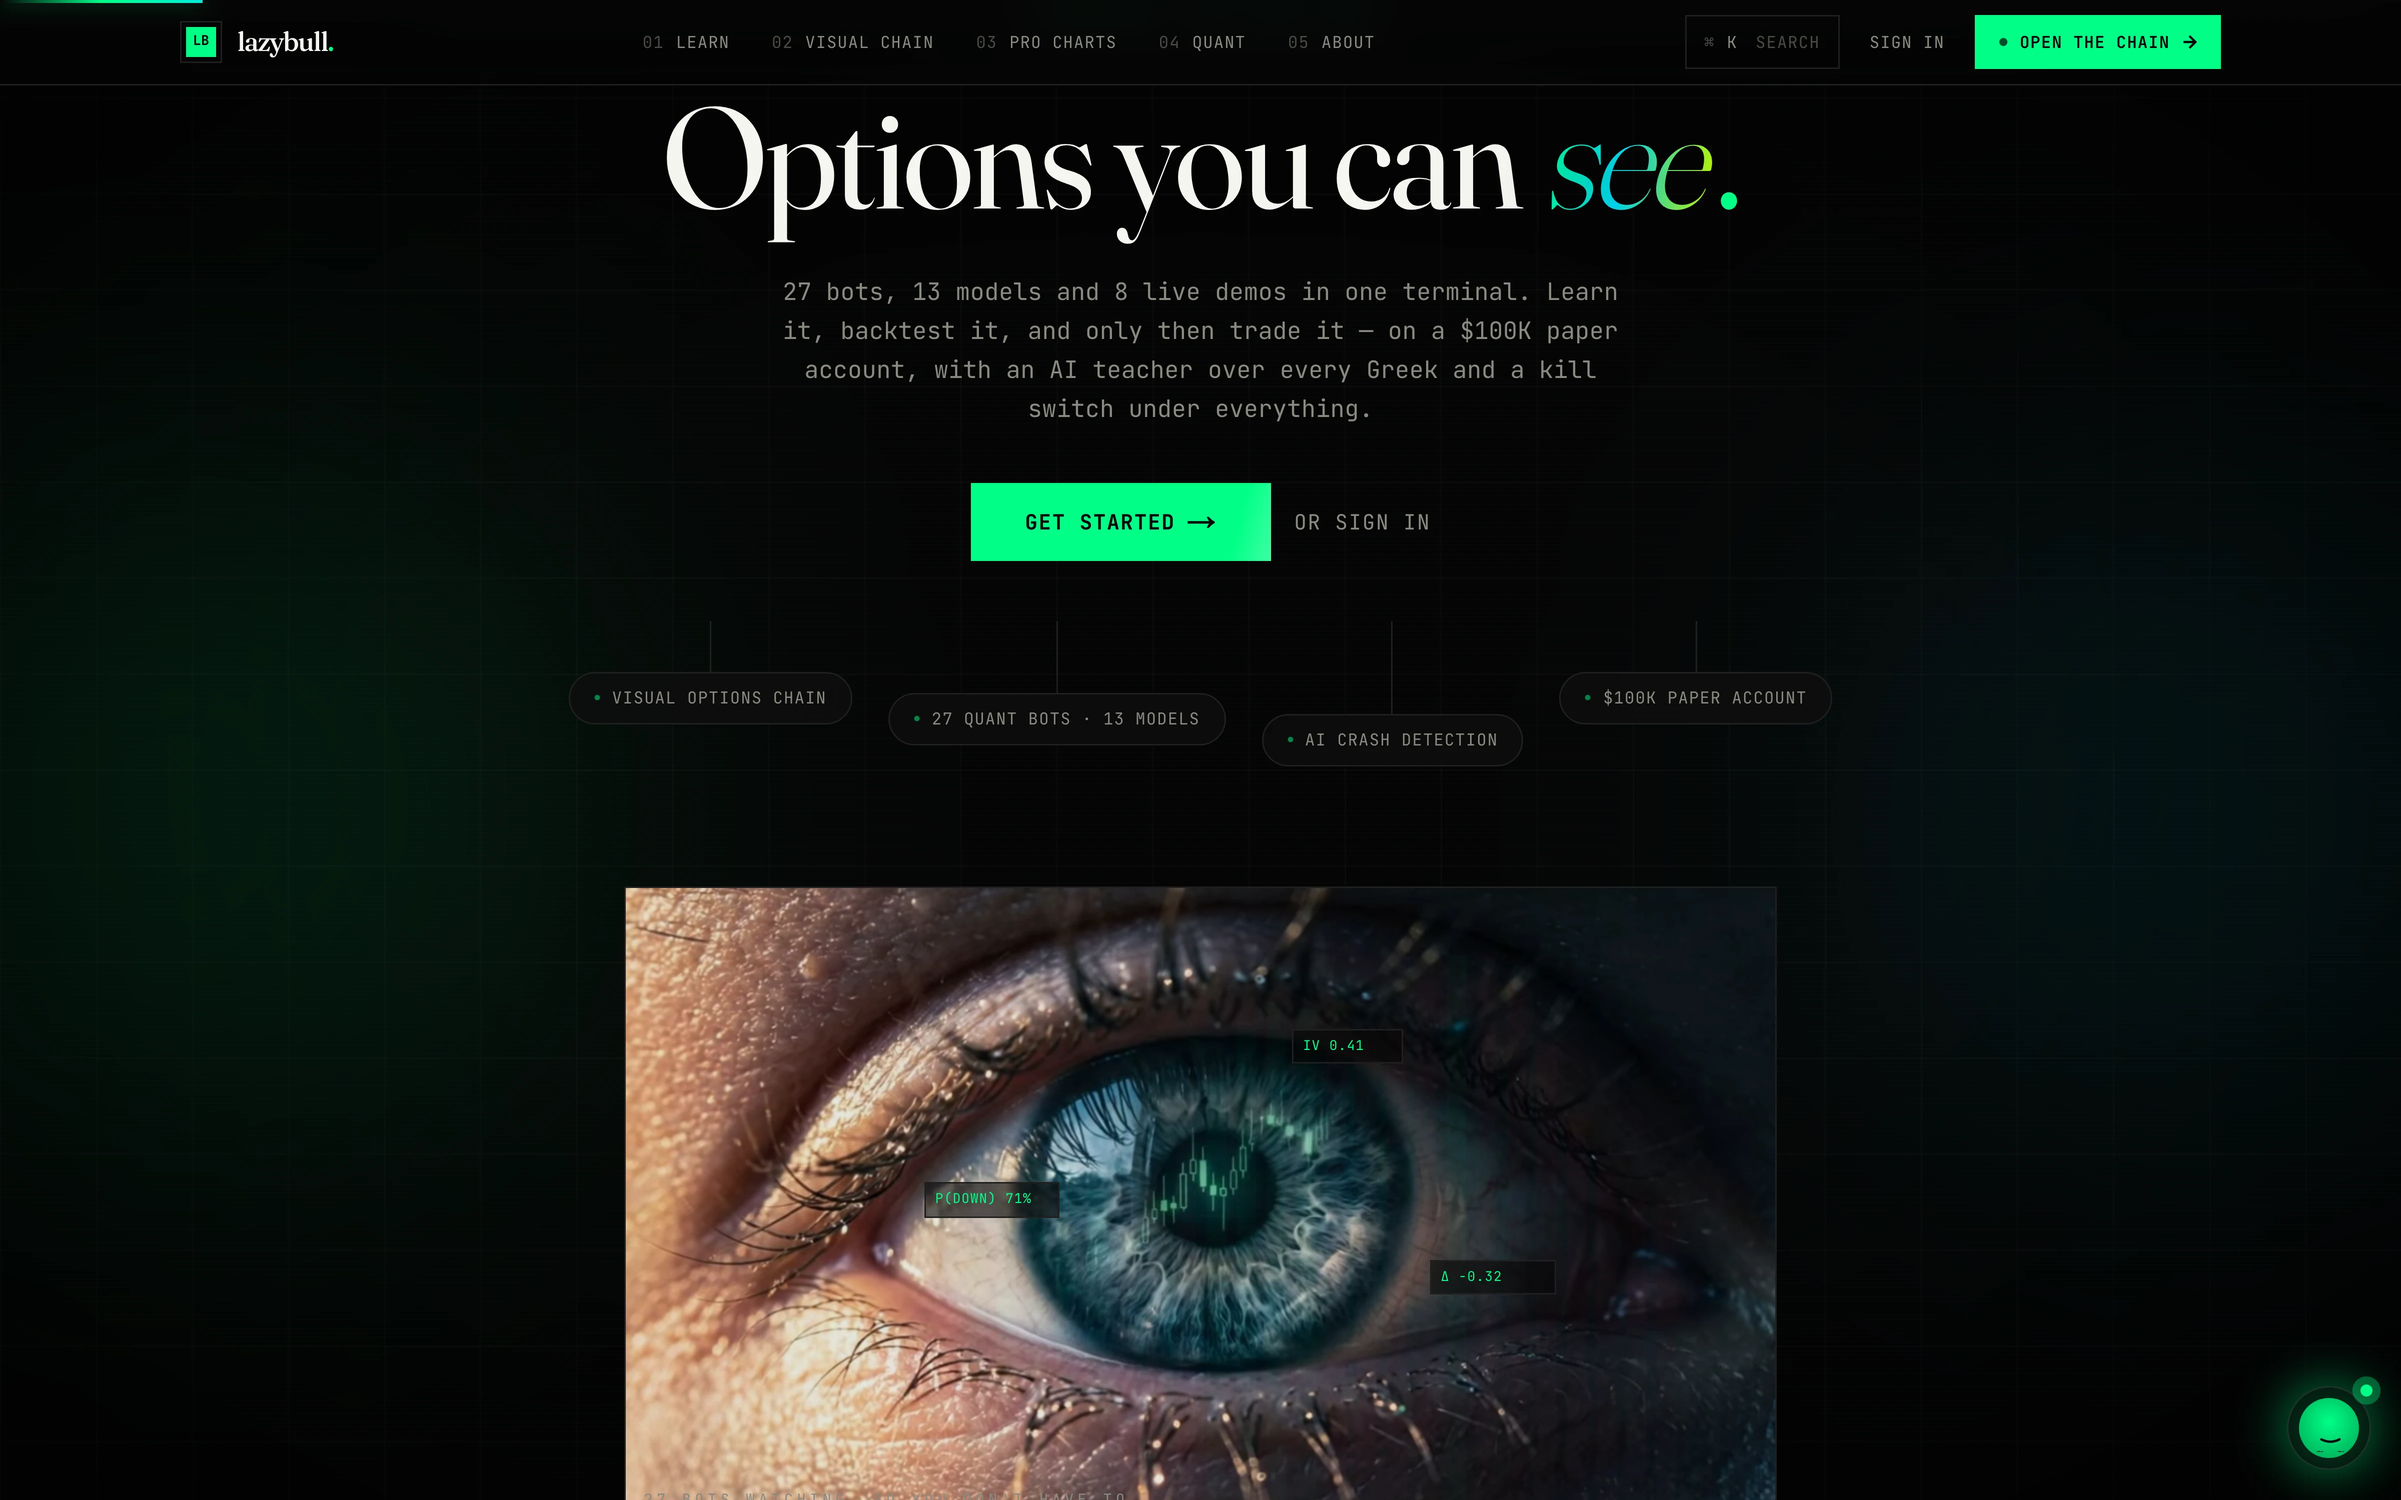
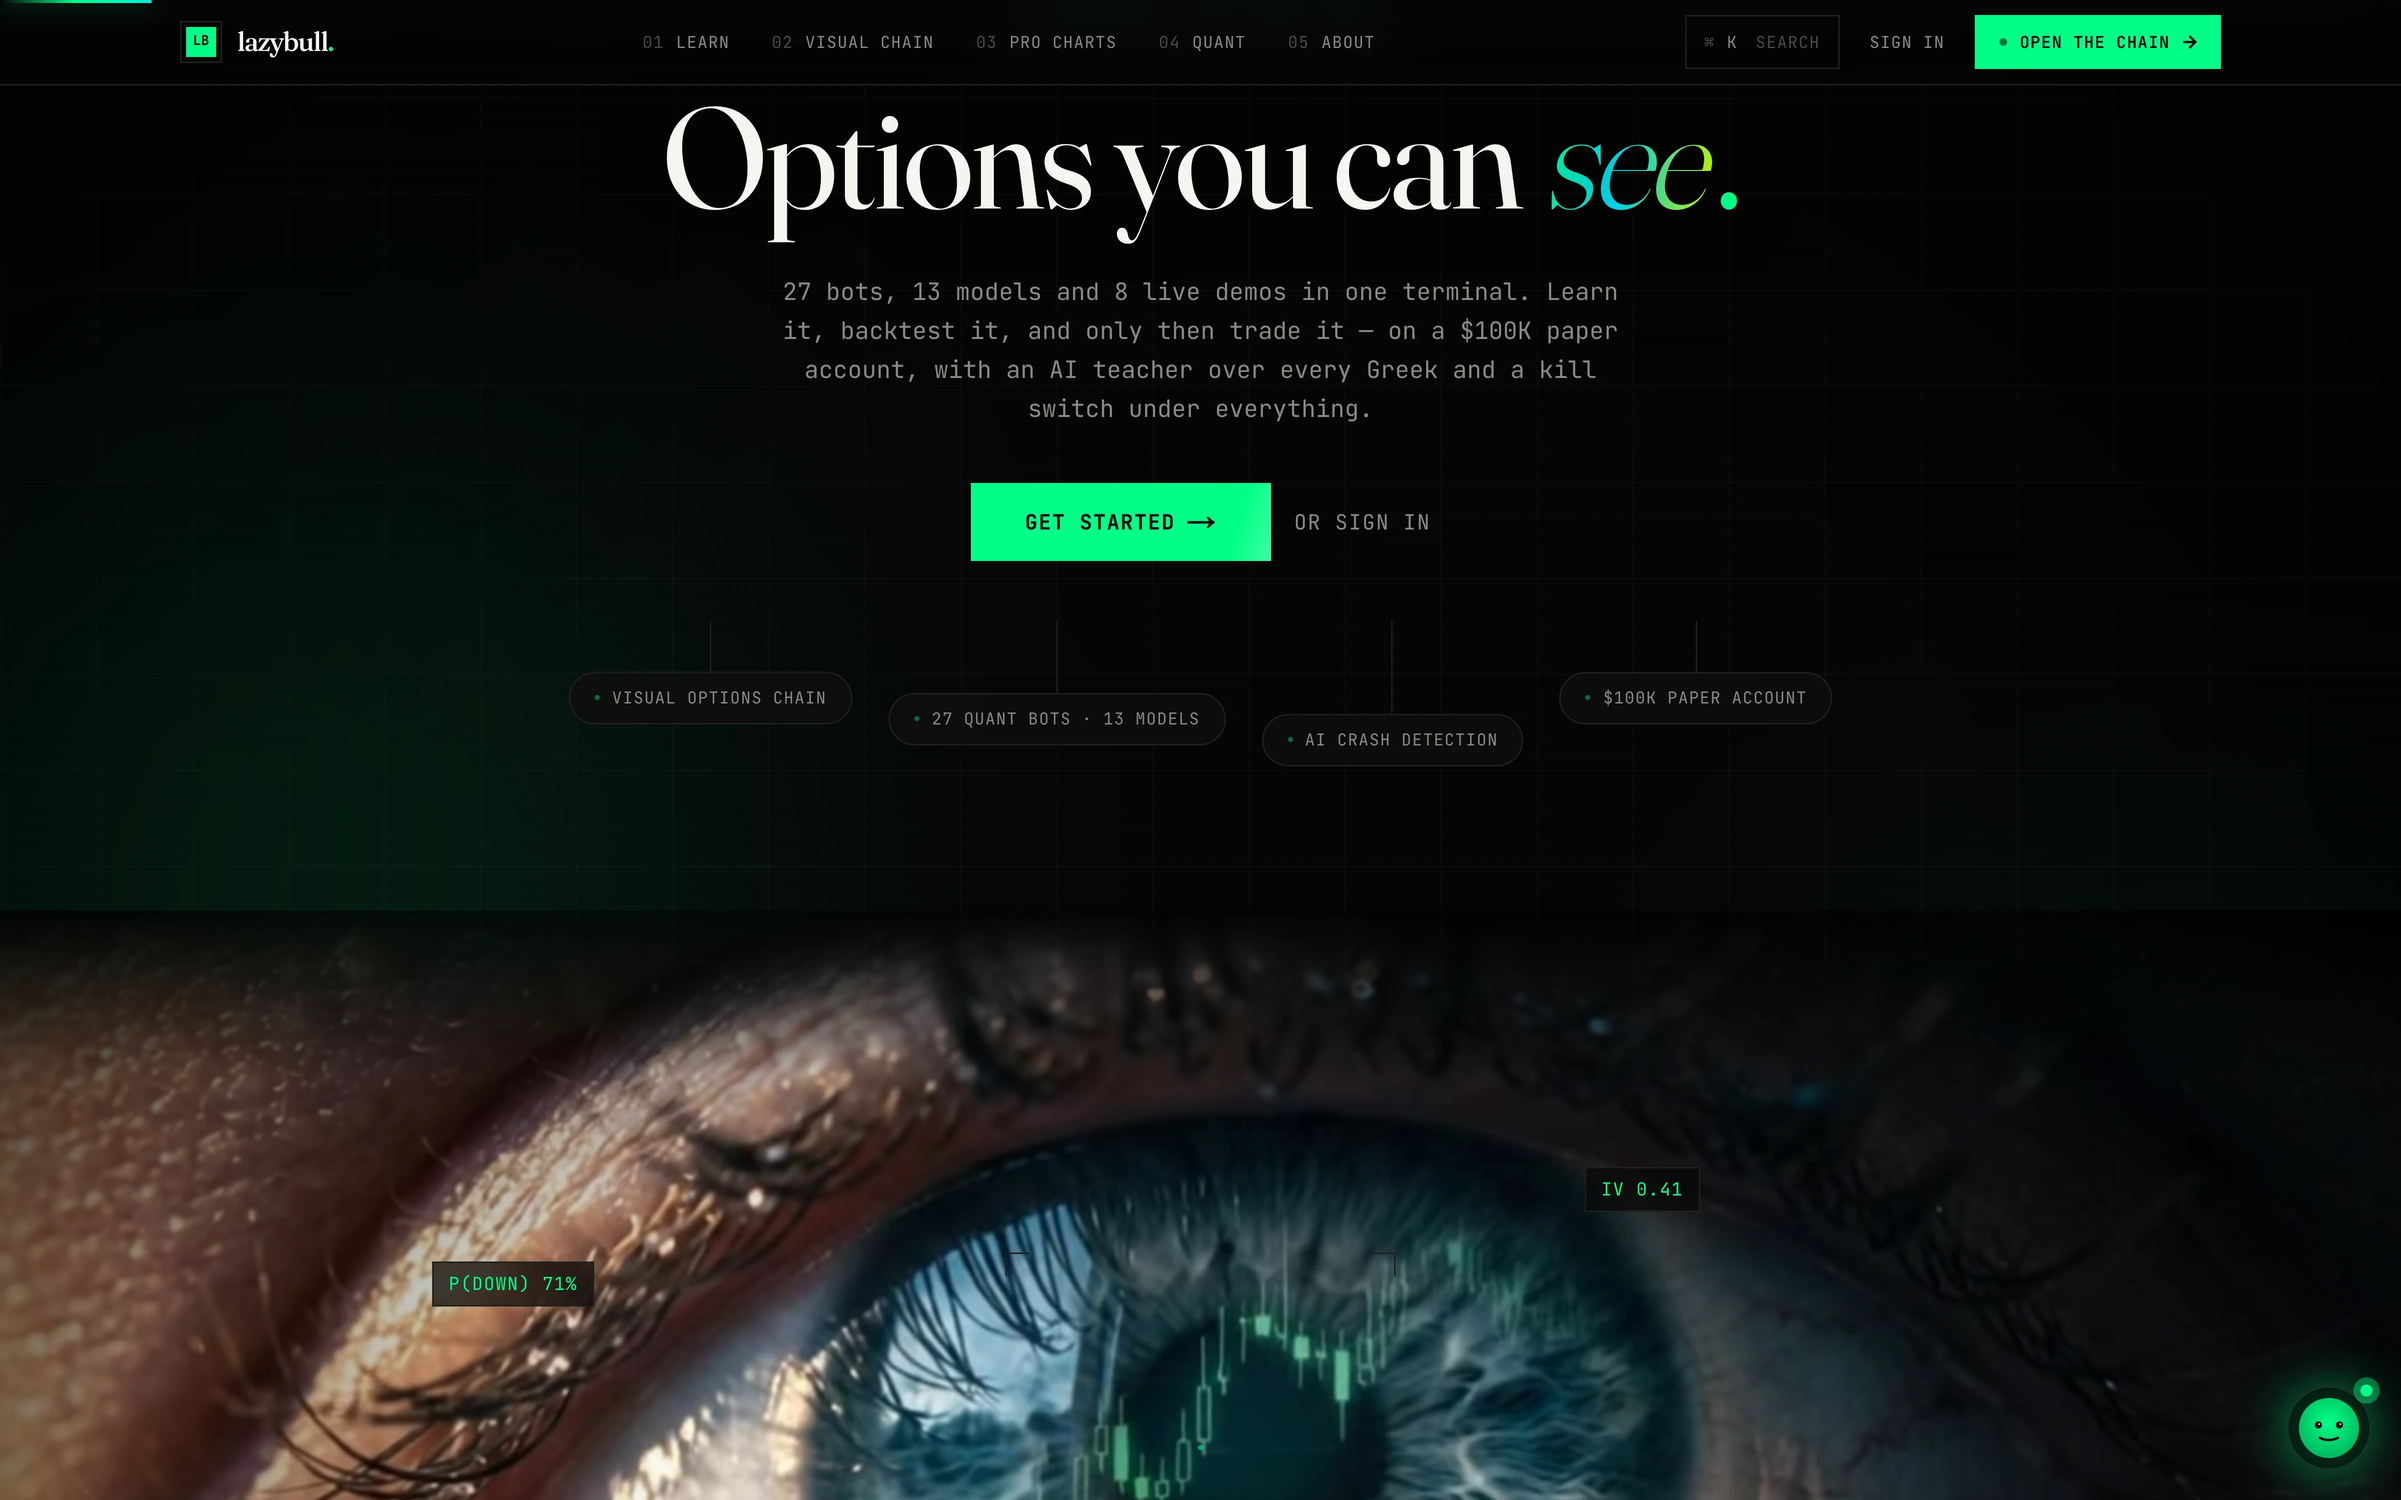
fix(home): eye band goes full-bleed — a scene, not an embed
Kill the bordered box: the live eye now runs edge to edge at 78vh,
top/bottom melted into the void with a mask + vignette. The caption
becomes a real title card set on the footage ('27 bots watching, so
you don't have to.'), HUD boxes sized up to readable, corner brackets
target the pupil. Reveal target rebaked.

Changed region(s): [[0.0, 0.589, 0.8438, 1.0]]

diff --git a/components/GetStarted.tsx b/components/GetStarted.tsx
@@ -152,41 +152,70 @@ export function GetStarted() {
           ))}
         </div>
 
-        {/* the AI that watches — macro eye with live HUD tracking boxes */}
-        <div className="relative mt-12 w-full max-w-3xl overflow-hidden border border-border">
-          {/* a LIVE eye: blinks, pupil breathes, the chart in it flickers */}
-          <video
-            ref={(el) => {
-              if (!el) return;
-              el.muted = true;
-              if (el.paused && !window.matchMedia("(prefers-reduced-motion: reduce)").matches) {
-                el.play().catch(() => {});
-              }
-            }}
-            src="/media/loops/eye-loop.webm"
-            poster="/media/eye/eye-hero@1600.webp"
-            autoPlay
-            muted
-            loop
-            playsInline
-            aria-label="Macro eye with a candlestick chart reflected in the pupil — the AI watches every tick"
-            className="h-auto w-full opacity-90"
-          />
-          {[
-            { l: "26%", t: "46%", w: 90, label: "P(down) 71%" },
-            { l: "58%", t: "22%", w: 74, label: "IV 0.41" },
-            { l: "70%", t: "58%", w: 84, label: "Δ −0.32" },
-          ].map((b) => (
+        {/* the AI that watches — FULL-BLEED live eye, type set ON the footage,
+            edges melted into the void (no box, no border: this is a scene,
+            not an embed) */}
+        <div className="relative left-1/2 mt-16 w-screen -translate-x-1/2">
+          <div className="relative h-[78vh] min-h-[420px] w-full overflow-hidden">
+            <video
+              ref={(el) => {
+                if (!el) return;
+                el.muted = true;
+                if (el.paused && !window.matchMedia("(prefers-reduced-motion: reduce)").matches) {
+                  el.play().catch(() => {});
+                }
+              }}
+              src="/media/loops/eye-loop.webm"
+              poster="/media/eye/eye-hero@1600.webp"
+              autoPlay
+              muted
+              loop
+              playsInline
+              aria-label="Macro eye with a candlestick chart reflected in the pupil — the AI watches every tick"
+              className="absolute inset-0 h-full w-full object-cover"
+              style={{
+                maskImage:
+                  "linear-gradient(to bottom, transparent 0%, black 14%, black 84%, transparent 100%)",
+              }}
+            />
+            {/* vignette keeps the frame edges in the void */}
             <div
-              key={b.label}
-              className="pointer-events-none absolute border border-bull/70 bg-bg/60 px-1.5 py-1 text-left font-mono text-[9px] uppercase tracking-wider text-bull backdrop-blur-[1px]"
-              style={{ left: b.l, top: b.t, width: b.w, animation: "gs-hud 3.2s ease-in-out infinite" }}
+              className="pointer-events-none absolute inset-0"
+              style={{ background: "radial-gradient(ellipse at 50% 46%, transparent 30%, rgba(0,0,0,0.78) 92%)" }}
+            />
+            {/* pupil target brackets + tracking HUD */}
+            <div
+              className="pointer-events-none absolute left-1/2 top-[46%] size-[26vmin] -translate-x-1/2 -translate-y-1/2"
+              aria-hidden
             >
-              {b.label}
+              {["left-0 top-0 border-l border-t", "right-0 top-0 border-r border-t", "left-0 bottom-0 border-l border-b", "right-0 bottom-0 border-r border-b"].map((pos) => (
+                <span key={pos} className={`absolute size-4 border-bull/80 ${pos}`} />
+              ))}
+              <span className="absolute left-1/2 top-1/2 size-1 -translate-x-1/2 -translate-y-1/2 rounded-full bg-bull pulse-dot" />
             </div>
-          ))}
-          <div className="absolute bottom-3 left-3 font-mono text-[10px] uppercase tracking-[0.25em] text-fg-dim">
-            27 bots watching, so you don&apos;t have to
+            {[
+              { l: "18%", t: "30%", label: "P(down) 71%", d: "0s" },
+              { l: "66%", t: "22%", label: "IV 0.41", d: "-1.1s" },
+              { l: "70%", t: "66%", label: "Δ −0.32", d: "-2.2s" },
+            ].map((b) => (
+              <div
+                key={b.label}
+                className="pointer-events-none absolute border border-bull/70 bg-bg/70 px-2.5 py-1.5 text-left font-mono text-[11px] uppercase tracking-wider text-bull backdrop-blur-sm md:text-xs"
+                style={{ left: b.l, top: b.t, animation: "gs-hud 3.2s ease-in-out infinite", animationDelay: b.d }}
+              >
+                {b.label}
+              </div>
+            ))}
+            {/* the line, set like a title card — not a caption */}
+            <div className="absolute inset-x-0 bottom-[8%] px-6 text-center">
+              <div className="font-display text-fg text-[clamp(1.8rem,4.5vw,3.6rem)] leading-tight [text-shadow:0_2px_30px_rgba(0,0,0,0.95)]">
+                27 bots watching,{" "}
+                <span className="italic font-light text-bull">so you don&apos;t have to.</span>
+              </div>
+              <div className="mt-3 font-mono text-[11px] uppercase tracking-[0.3em] text-fg-dim [text-shadow:0_1px_12px_rgba(0,0,0,0.9)]">
+                every tick · every greek · every regime
+              </div>
+            </div>
           </div>
         </div>
       </div>
